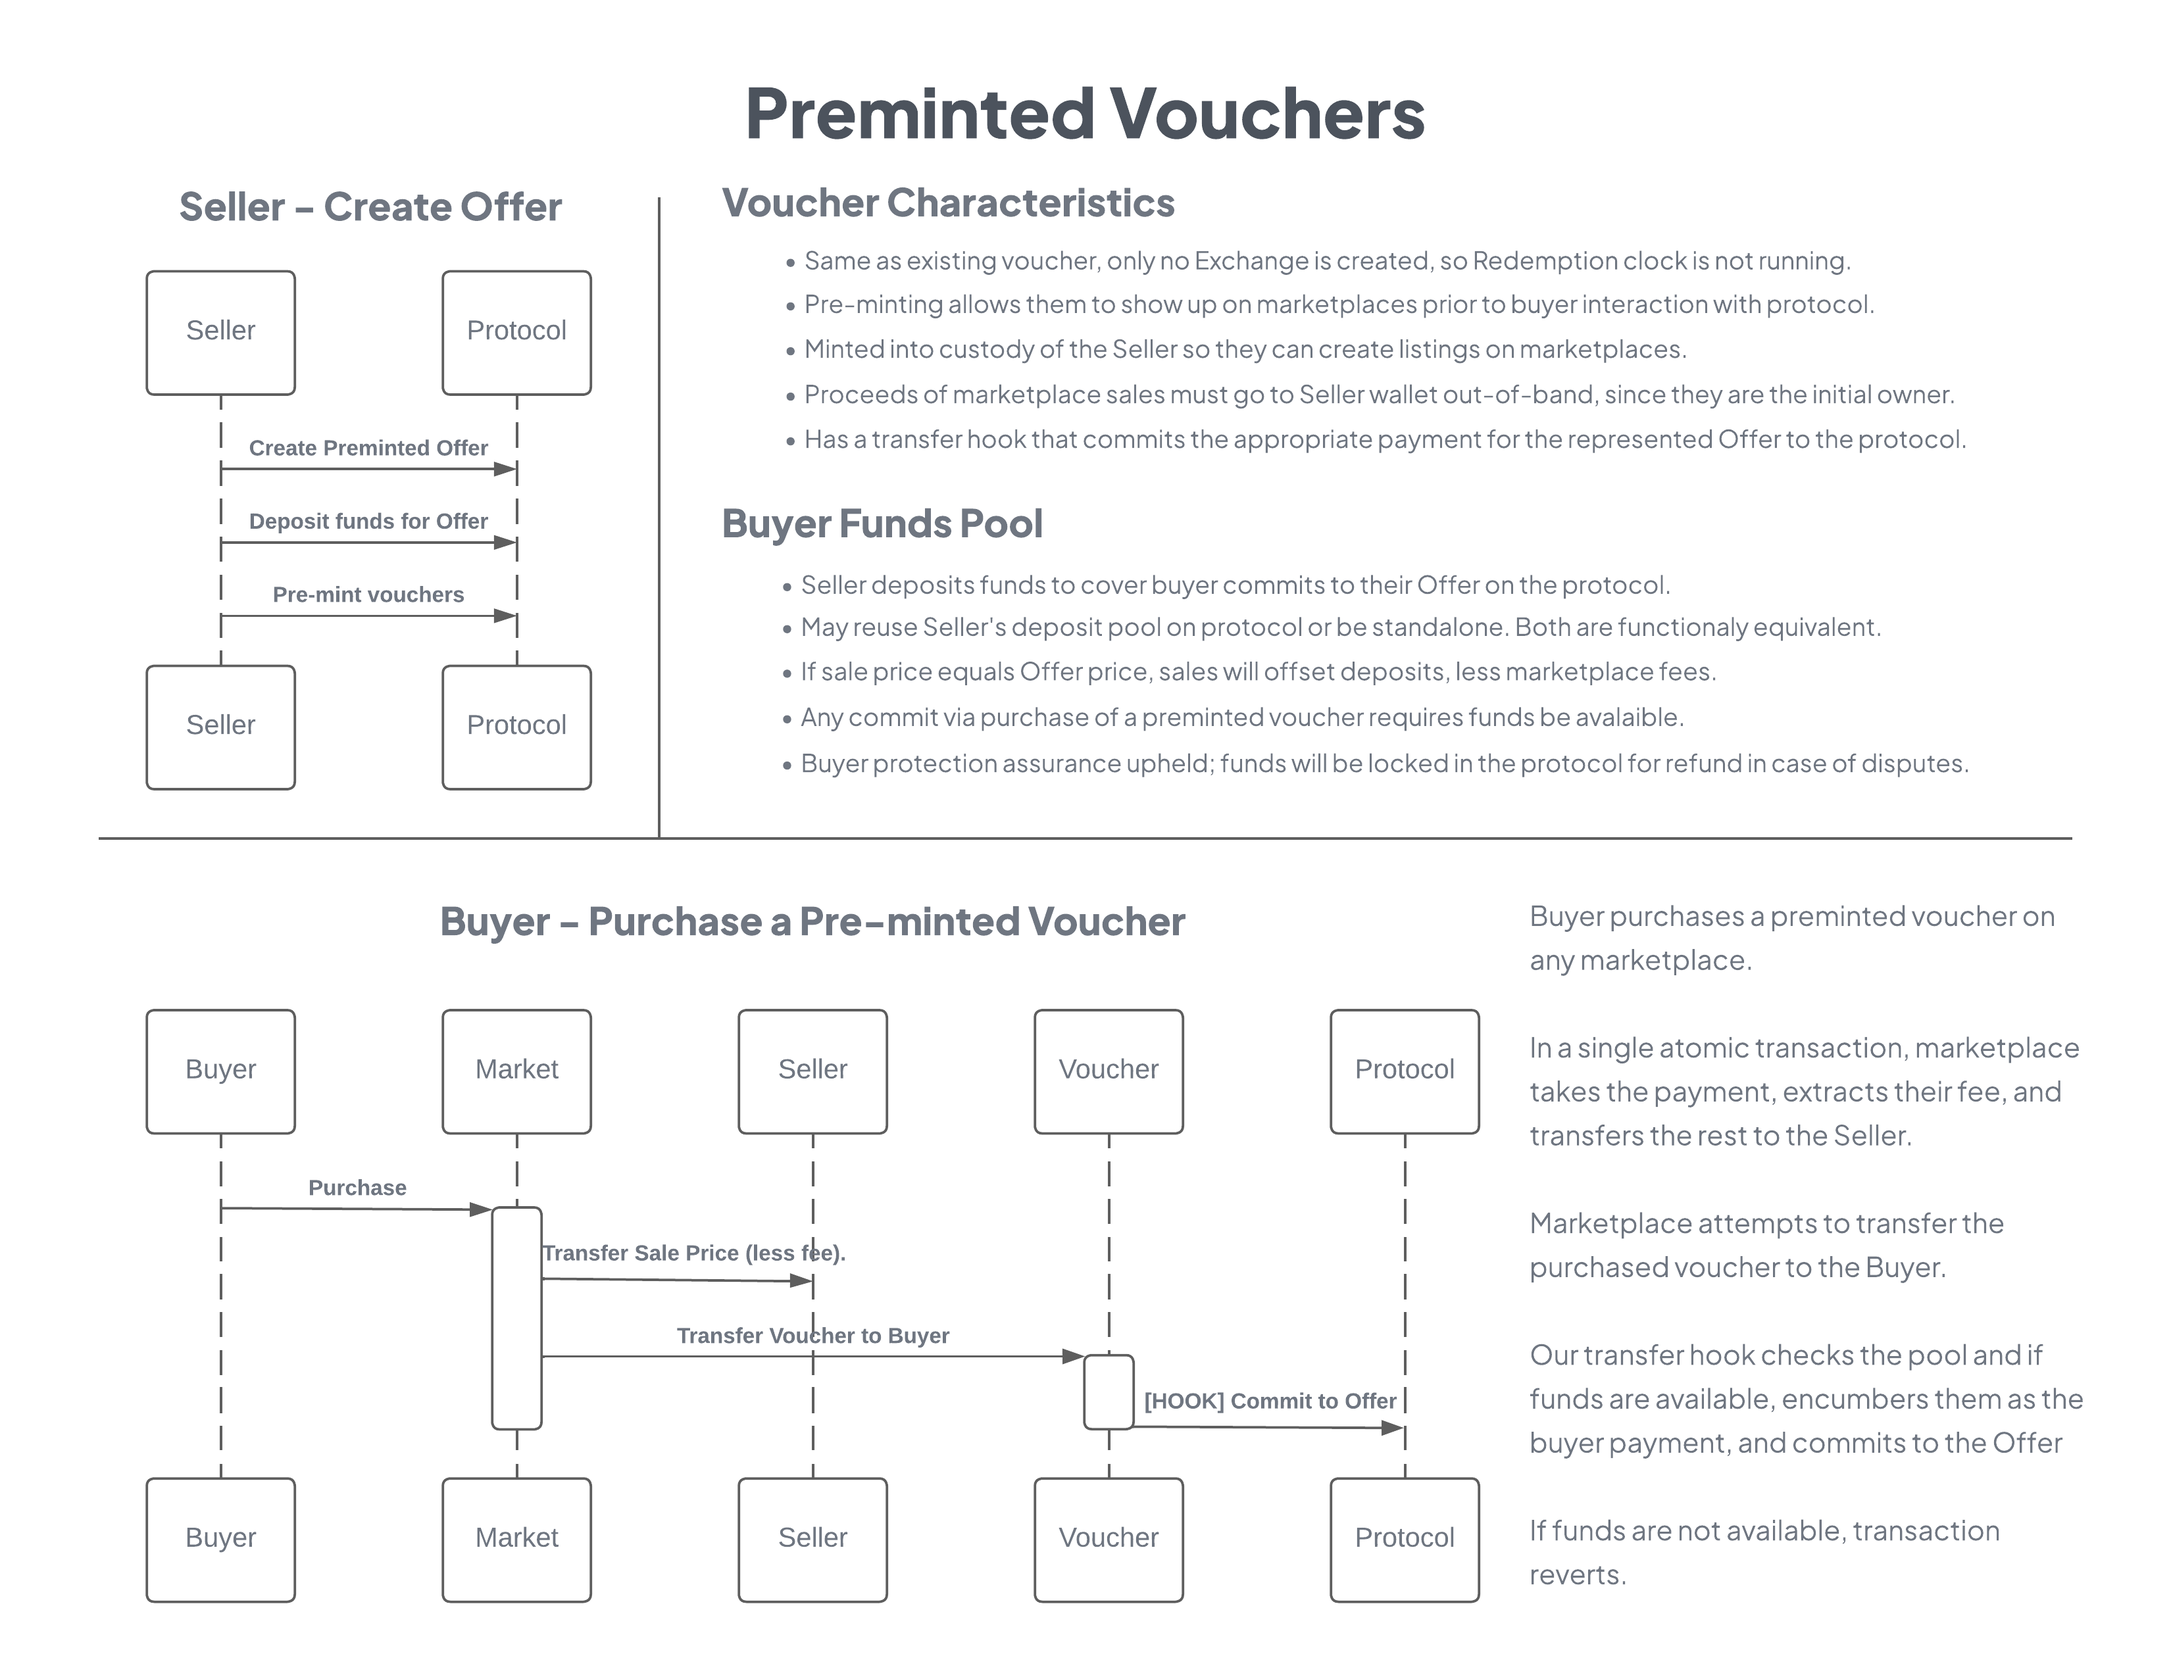
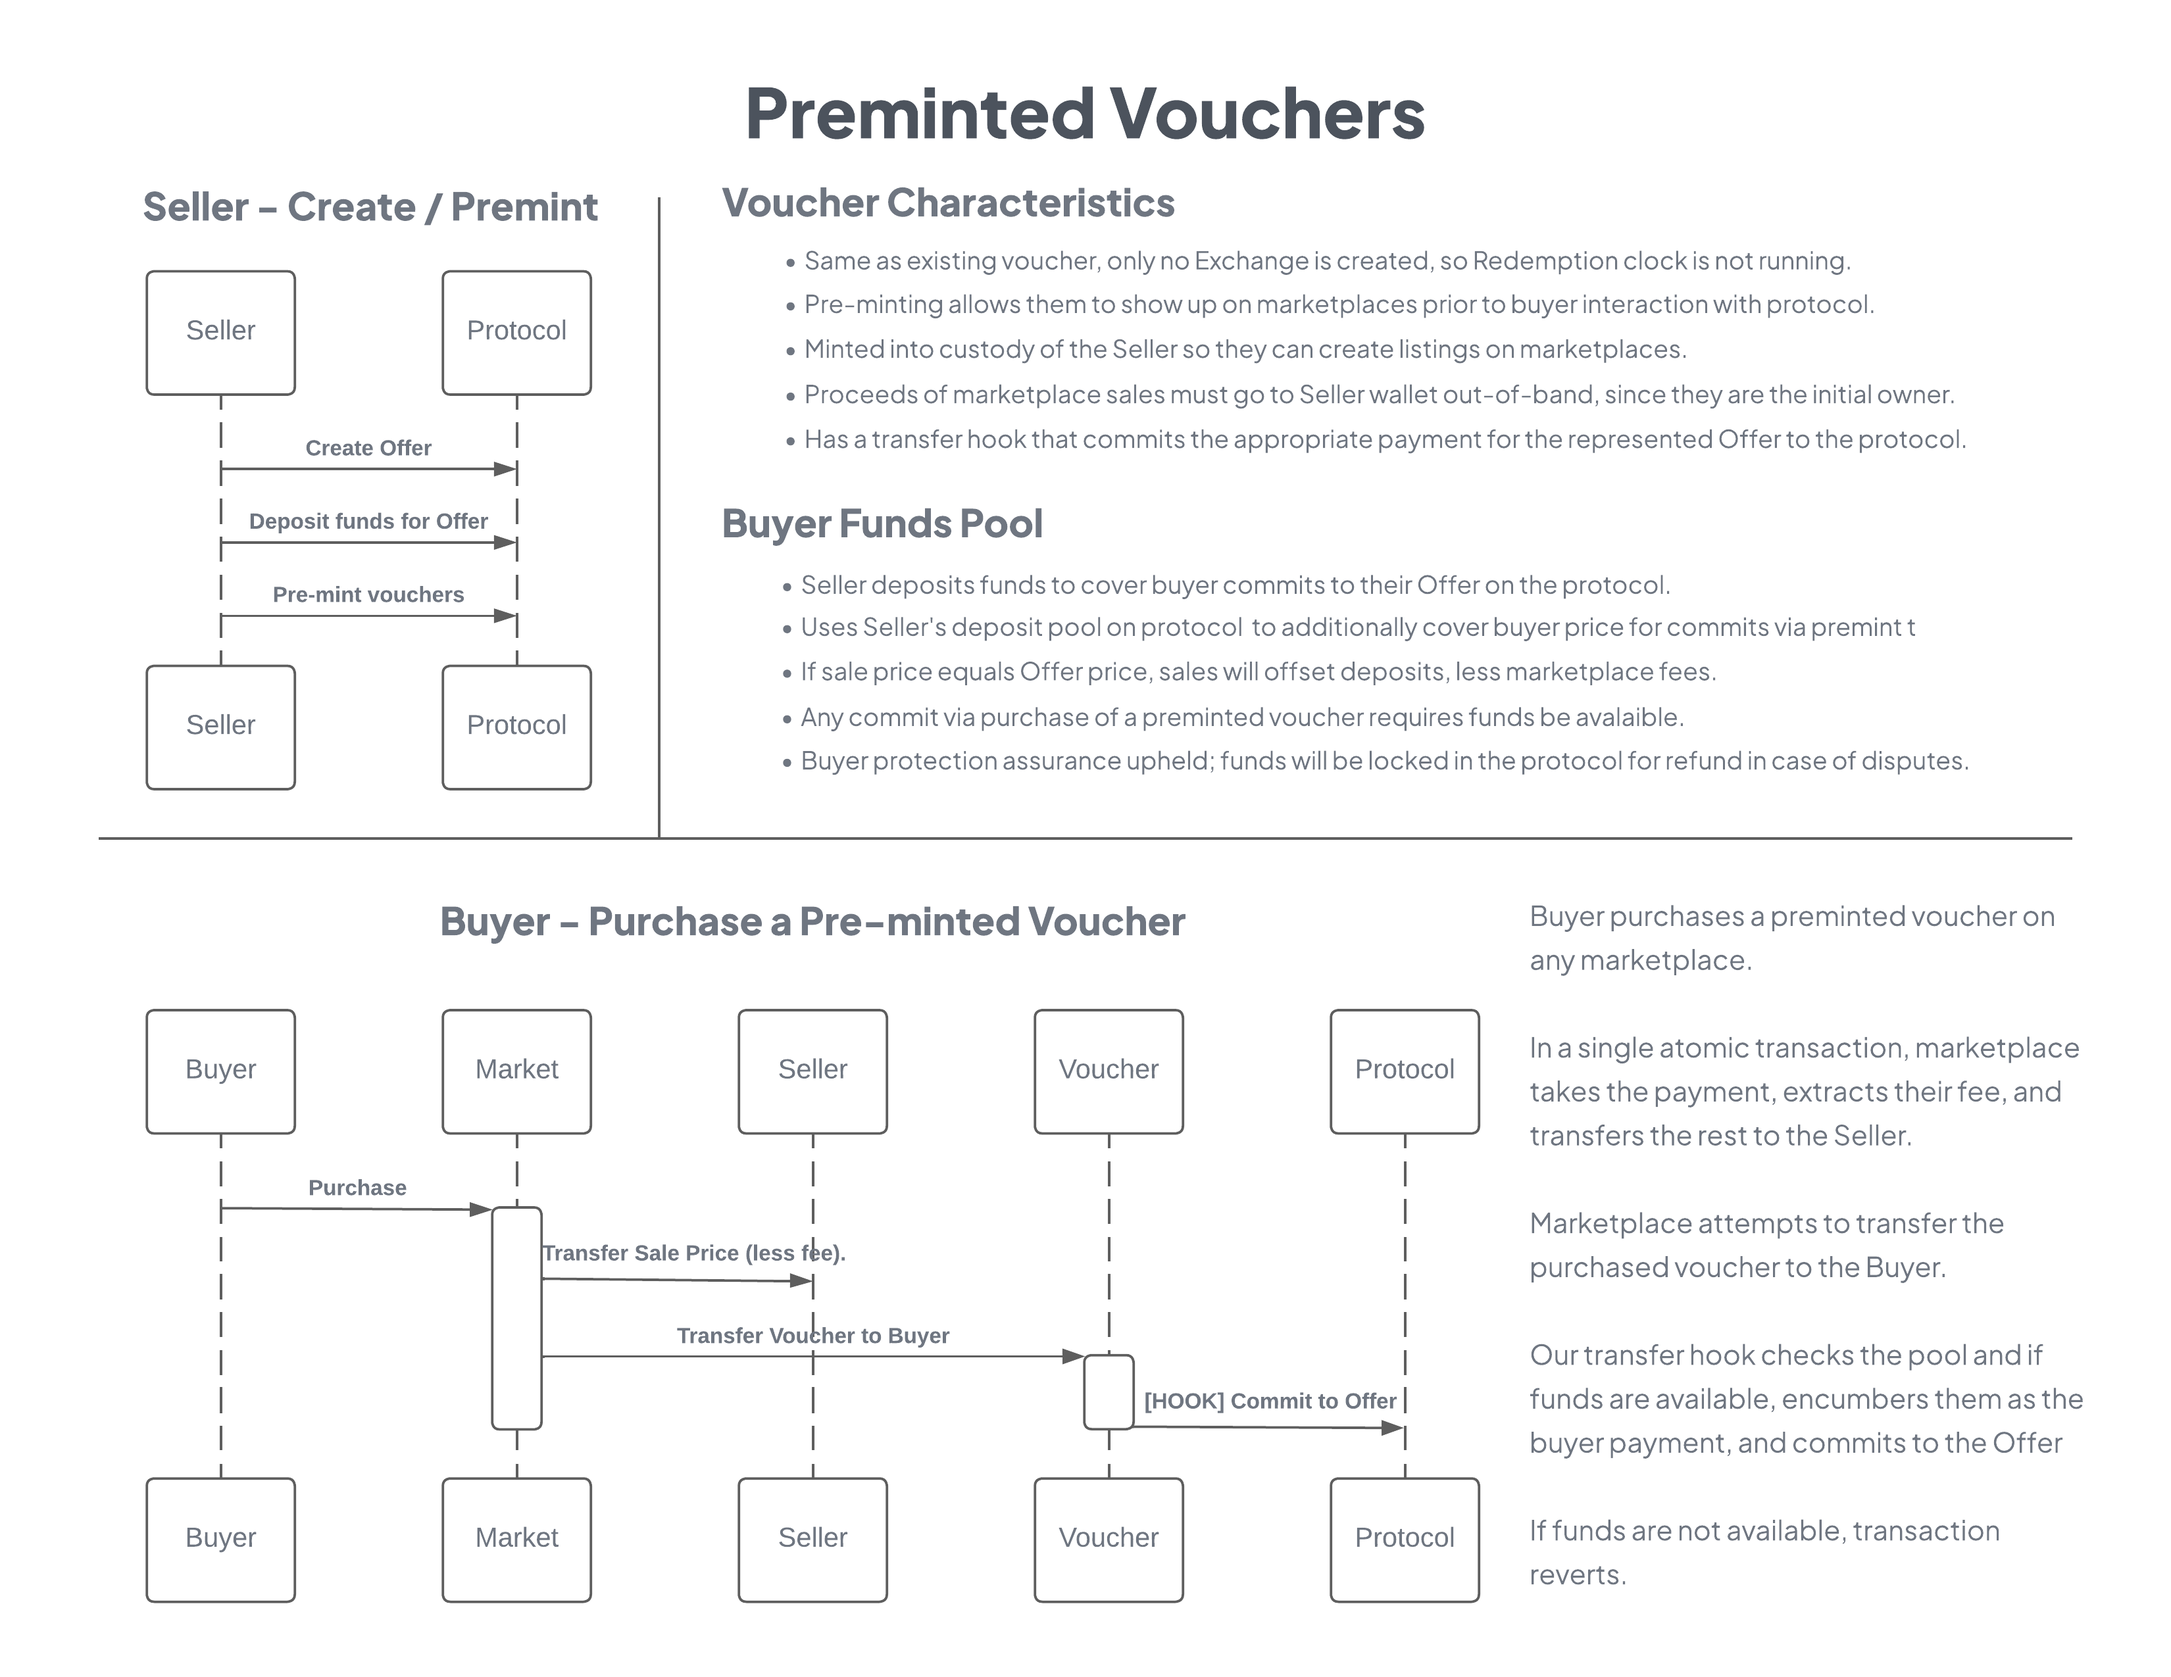
Documentation update (#484)
* Updated Boson_Protocol_V2_-_Protocol_Diamond.png
  - Accidentally omitted it from previous run.

* Updated Boson_Protocol_V2_-_Preminted_Vouchers.png

* In sequences.md,
  - Added Preminted Voucher Sequences section and diagram.

diff --git a/docs/sequences.md b/docs/sequences.md
@@ -31,3 +31,14 @@
 * At the time of escalation, the buyer must make a small deposit (a percentage of the dispute resolver fee) as a spam prevention measure. That deposit will be added to the pot (all committed funds from both parties for the current exchange) that will be split according to the dispute resolver's decision.
 * In this scenario, the buyer has received damaged or otherwise unacceptable goods. Since the Dispute Period has not yet elapsed, the buyer raises a dispute. In an off-chain discussion, the two parties fail to arrive at a resolution, expressed as the percentage of the pot that the buyer will receive. The example in the diagram shows a 100% refund for the buyer being decided upon by the dispute resolver.
 * Regardless of the resolution, neither party must withdraw funds immediately nor in any particular order. Funds unencumbered at the end of an exchange accumulate for the buyer and seller, so they may withdraw all available funds from finalized exchanges at any time. The seller may leave it in the protocol to back their deposits for future exchanges.
+
+## Preminted Voucher Sequences
+![Preminted Voucher Sequences](images/Boson_Protocol_V2_-_Preminted_Vouchers.png)
+
+### About this diagram
+* This diagram shows the process of pre-minting a range of vouchers for an offer and what happens when a pre-minted voucher is purchased on an exchange.
+* Pre-minting really just reserves a range of exchange / voucher token ids for use with a particular offer. The entire quantity available of the offer doesn't have to be pre-minted.
+* When a pre-minted voucher is purchased on a marketplace, a transfer hook is called, causing the offer to be committed to on behalf of the buyer.
+* The marketplace takes its cut of the sale and sends the remainder to the operator address of the seller (who is the de facto owner of all pre-minted vouchers and thus has the authority to list the items on marketplaces).
+* Meanwhile, the offer price is encumbered from the seller's deposit pool, for buyer assurance.
+* If only part of an offer's quantity available is pre-minted, the balance will be available for commit directly on the protocol.
